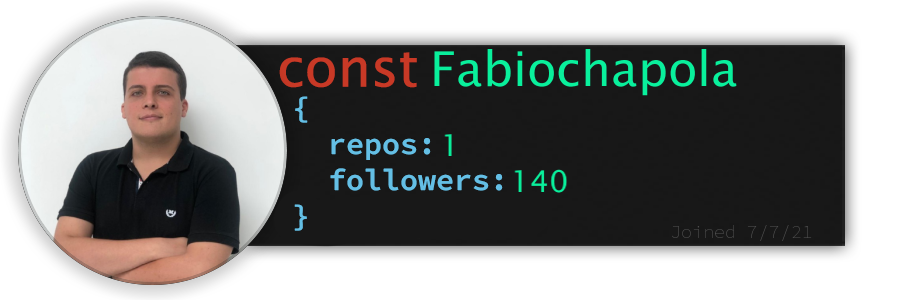
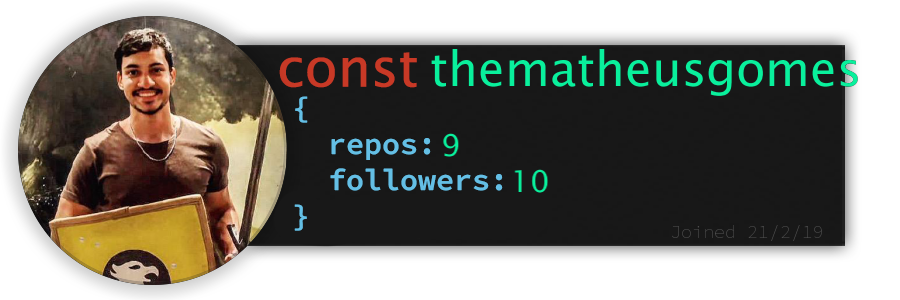
Generated readme

diff --git a/README.md b/README.md
@@ -9,65 +9,65 @@
 * Rômulo Gatto, 29 years
 * Senior Software Engineer
 * Full Cycle Engineer
-* 14 Years, 1 Month and 25 Days since I started Coding
-* 11 Years, 3 Months and 13 Days since I started Working with code
+* 14 Years, 1 Month and 26 Days since I started Coding
+* 11 Years, 3 Months and 14 Days since I started Working with code
 
 ## **Skills wall:**
 
-<p align="left"><img src="https://img.shields.io/badge/sqlite-005b96?logo=sqlite&style=for-the-badge&logoColor=F2F2F2"/>
-<img src="https://img.shields.io/badge/visual%20studio%20code-b6764d?logo=visual%20studio%20code&style=for-the-badge&logoColor=F2F2F2"/>
-<img src="https://img.shields.io/badge/asana-b3cee0?logo=asana&style=for-the-badge&logoColor=121111"/>
-<img src="https://img.shields.io/badge/swagger-b3cee0?logo=swagger&style=for-the-badge&logoColor=121111"/>
-<img src="https://img.shields.io/badge/fastapi-005b96?logo=fastapi&style=for-the-badge&logoColor=F2F2F2"/>
-<img src="https://img.shields.io/badge/pydantic-b6764d?logo=pydantic&style=for-the-badge&logoColor=F2F2F2"/>
-<img src="https://img.shields.io/badge/sqlalchemy-b3cee0?logo=sqlalchemy&style=for-the-badge&logoColor=121111"/>
-<img src="https://img.shields.io/badge/figma-b3cee0?logo=figma&style=for-the-badge&logoColor=121111"/>
-<img src="https://img.shields.io/badge/jenkins-b6764d?logo=jenkins&style=for-the-badge&logoColor=F2F2F2"/>
+<p align="left"><img src="https://img.shields.io/badge/mongodb-b3cee0?logo=mongodb&style=for-the-badge&logoColor=121111"/>
+<img src="https://img.shields.io/badge/express.js-b3cee0?logo=express&style=for-the-badge&logoColor=121111"/>
 <img src="https://img.shields.io/badge/python-005b96?logo=python&style=for-the-badge&logoColor=F2F2F2"/>
-<img src="https://img.shields.io/badge/pytest-b3cee0?logo=pytest&style=for-the-badge&logoColor=121111"/>
-<img src="https://img.shields.io/badge/photoshop-b6764d?logo=adobe-photoshop&style=for-the-badge&logoColor=F2F2F2"/>
-<img src="https://img.shields.io/badge/ruby-b3cee0?logo=ruby&style=for-the-badge&logoColor=121111"/>
-<img src="https://img.shields.io/badge/mongodb-b3cee0?logo=mongodb&style=for-the-badge&logoColor=121111"/>
-<img src="https://img.shields.io/badge/react-005b96?logo=react&style=for-the-badge&logoColor=F2F2F2"/>
-<img src="https://img.shields.io/badge/rio-b3cee0?logo=rio&style=for-the-badge&logoColor=121111"/>
-<img src="https://img.shields.io/badge/golang-005b96?logo=golang&style=for-the-badge&logoColor=F2F2F2"/>
-<img src="https://img.shields.io/badge/markdown-b6764d?logo=markdown&style=for-the-badge&logoColor=F2F2F2"/>
-<img src="https://img.shields.io/badge/jira-005b96?logo=jira&style=for-the-badge&logoColor=F2F2F2"/>
+<img src="https://img.shields.io/badge/django-b3cee0?logo=django&style=for-the-badge&logoColor=121111"/>
+<img src="https://img.shields.io/badge/swagger-b3cee0?logo=swagger&style=for-the-badge&logoColor=121111"/>
+<img src="https://img.shields.io/badge/asana-b3cee0?logo=asana&style=for-the-badge&logoColor=121111"/>
+<img src="https://img.shields.io/badge/figma-b6764d?logo=figma&style=for-the-badge&logoColor=F2F2F2"/>
 <img src="https://img.shields.io/badge/node.js-005b96?logo=node.js&style=for-the-badge&logoColor=F2F2F2"/>
+<img src="https://img.shields.io/badge/postman-b3cee0?logo=postman&style=for-the-badge&logoColor=121111"/>
+<img src="https://img.shields.io/badge/typescript-005b96?logo=typescript&style=for-the-badge&logoColor=F2F2F2"/>
+<img src="https://img.shields.io/badge/github%20pages-005b96?logo=github&style=for-the-badge&logoColor=F2F2F2"/>
 <img src="https://img.shields.io/badge/restapi-005b96?logo=restapi&style=for-the-badge&logoColor=F2F2F2"/>
+<img src="https://img.shields.io/badge/fastapi-005b96?logo=fastapi&style=for-the-badge&logoColor=F2F2F2"/>
 <img src="https://img.shields.io/badge/npm-b6764d?logo=npm&style=for-the-badge&logoColor=F2F2F2"/>
 <img src="https://img.shields.io/badge/flask-b6764d?logo=flask&style=for-the-badge&logoColor=F2F2F2"/>
-<img src="https://img.shields.io/badge/django-b6764d?logo=django&style=for-the-badge&logoColor=F2F2F2"/>
-<img src="https://img.shields.io/badge/github%20actions-005b96?logo=github%20actions&style=for-the-badge&logoColor=F2F2F2"/>
-<img src="https://img.shields.io/badge/github-b3cee0?logo=github&style=for-the-badge&logoColor=121111"/>
-<img src="https://img.shields.io/badge/jquery-b3cee0?logo=jquery&style=for-the-badge&logoColor=121111"/>
+<img src="https://img.shields.io/badge/photoshop-b6764d?logo=adobe-photoshop&style=for-the-badge&logoColor=F2F2F2"/>
 <img src="https://img.shields.io/badge/react%20native-b3cee0?logo=react&style=for-the-badge&logoColor=121111"/>
-<img src="https://img.shields.io/badge/express.js-b6764d?logo=express&style=for-the-badge&logoColor=F2F2F2"/>
-<img src="https://img.shields.io/badge/gitlab-b6764d?logo=gitlab&style=for-the-badge&logoColor=F2F2F2"/>
-<img src="https://img.shields.io/badge/typescript-005b96?logo=typescript&style=for-the-badge&logoColor=F2F2F2"/>
+<img src="https://img.shields.io/badge/rio-b3cee0?logo=rio&style=for-the-badge&logoColor=121111"/>
 <img src="https://img.shields.io/badge/graphql-005b96?logo=graphql&style=for-the-badge&logoColor=F2F2F2"/>
-<img src="https://img.shields.io/badge/postgresql-b6764d?logo=postgresql&style=for-the-badge&logoColor=F2F2F2"/>
-<img src="https://img.shields.io/badge/hostinger-005b96?logo=hostinger&style=for-the-badge&logoColor=F2F2F2"/>
-<img src="https://img.shields.io/badge/jest-b3cee0?logo=jest&style=for-the-badge&logoColor=121111"/>
-<img src="https://img.shields.io/badge/illustrator-b6764d?logo=adobe-illustrator&style=for-the-badge&logoColor=F2F2F2"/>
+<img src="https://img.shields.io/badge/sqlalchemy-b3cee0?logo=sqlalchemy&style=for-the-badge&logoColor=121111"/>
+<img src="https://img.shields.io/badge/visual%20studio%20code-b3cee0?logo=visual%20studio%20code&style=for-the-badge&logoColor=121111"/>
+<img src="https://img.shields.io/badge/github%20actions-005b96?logo=github%20actions&style=for-the-badge&logoColor=F2F2F2"/>
+<img src="https://img.shields.io/badge/gitlab-b6764d?logo=gitlab&style=for-the-badge&logoColor=F2F2F2"/>
 <img src="https://img.shields.io/badge/delphi-b3cee0?logo=delphi&style=for-the-badge&logoColor=121111"/>
-<img src="https://img.shields.io/badge/graphene-b3cee0?logo=graphene&style=for-the-badge&logoColor=121111"/>
-<img src="https://img.shields.io/badge/postman-b3cee0?logo=postman&style=for-the-badge&logoColor=121111"/>
-<img src="https://img.shields.io/badge/shell%20script-b6764d?logo=gnu-bash&style=for-the-badge&logoColor=F2F2F2"/>
-<img src="https://img.shields.io/badge/gorm-b6764d?logo=gorm&style=for-the-badge&logoColor=F2F2F2"/>
-<img src="https://img.shields.io/badge/aws-005b96?logo=aws&style=for-the-badge&logoColor=F2F2F2"/>
+<img src="https://img.shields.io/badge/ruby-b3cee0?logo=ruby&style=for-the-badge&logoColor=121111"/>
+<img src="https://img.shields.io/badge/sqlite-005b96?logo=sqlite&style=for-the-badge&logoColor=F2F2F2"/>
+<img src="https://img.shields.io/badge/git-005b96?logo=git&style=for-the-badge&logoColor=F2F2F2"/>
+<img src="https://img.shields.io/badge/gorm-b3cee0?logo=gorm&style=for-the-badge&logoColor=121111"/>
+<img src="https://img.shields.io/badge/mysql-005b96?logo=mysql&style=for-the-badge&logoColor=F2F2F2"/>
+<img src="https://img.shields.io/badge/jquery-b3cee0?logo=jquery&style=for-the-badge&logoColor=121111"/>
+<img src="https://img.shields.io/badge/markdown-b3cee0?logo=markdown&style=for-the-badge&logoColor=121111"/>
+<img src="https://img.shields.io/badge/illustrator-b6764d?logo=adobe-illustrator&style=for-the-badge&logoColor=F2F2F2"/>
+<img src="https://img.shields.io/badge/jira-005b96?logo=jira&style=for-the-badge&logoColor=F2F2F2"/>
+<img src="https://img.shields.io/badge/hostinger-005b96?logo=hostinger&style=for-the-badge&logoColor=F2F2F2"/>
+<img src="https://img.shields.io/badge/docker-005b96?logo=docker&style=for-the-badge&logoColor=F2F2F2"/>
+<img src="https://img.shields.io/badge/graphene-b6764d?logo=graphene&style=for-the-badge&logoColor=F2F2F2"/>
 <img src="https://img.shields.io/badge/gcp-b3cee0?logo=gcp&style=for-the-badge&logoColor=121111"/>
 <img src="https://img.shields.io/badge/javascript-005b96?logo=javascript&style=for-the-badge&logoColor=F2F2F2"/>
+<img src="https://img.shields.io/badge/shell%20script-b3cee0?logo=gnu-bash&style=for-the-badge&logoColor=121111"/>
+<img src="https://img.shields.io/badge/jenkins-b6764d?logo=jenkins&style=for-the-badge&logoColor=F2F2F2"/>
 <img src="https://img.shields.io/badge/sql%20server-005b96?logo=sql%20server&style=for-the-badge&logoColor=F2F2F2"/>
-<img src="https://img.shields.io/badge/git-005b96?logo=git&style=for-the-badge&logoColor=F2F2F2"/>
-<img src="https://img.shields.io/badge/mysql-005b96?logo=mysql&style=for-the-badge&logoColor=F2F2F2"/>
-<img src="https://img.shields.io/badge/docker-005b96?logo=docker&style=for-the-badge&logoColor=F2F2F2"/>
-<img src="https://img.shields.io/badge/github%20pages-005b96?logo=github&style=for-the-badge&logoColor=F2F2F2"/></p>
+<img src="https://img.shields.io/badge/github-b3cee0?logo=github&style=for-the-badge&logoColor=121111"/>
+<img src="https://img.shields.io/badge/aws-005b96?logo=aws&style=for-the-badge&logoColor=F2F2F2"/>
+<img src="https://img.shields.io/badge/jest-b6764d?logo=jest&style=for-the-badge&logoColor=F2F2F2"/>
+<img src="https://img.shields.io/badge/pydantic-b6764d?logo=pydantic&style=for-the-badge&logoColor=F2F2F2"/>
+<img src="https://img.shields.io/badge/pytest-b3cee0?logo=pytest&style=for-the-badge&logoColor=121111"/>
+<img src="https://img.shields.io/badge/golang-005b96?logo=golang&style=for-the-badge&logoColor=F2F2F2"/>
+<img src="https://img.shields.io/badge/postgresql-b6764d?logo=postgresql&style=for-the-badge&logoColor=F2F2F2"/>
+<img src="https://img.shields.io/badge/react-005b96?logo=react&style=for-the-badge&logoColor=F2F2F2"/></p>
 
 ## **Recent projects:**
 
-<a href="https://github.com/RomuloGatto/Text-To-Video-AI"><img src="https://github-readme-stats.vercel.app/api/pin/?username=RomuloGatto&repo=Text-To-Video-AI&title_color=F2F2F2&text_color=F2F2F2&bg_color=b6764d&border_color=b6764d&icon_color=F2F2F2&border_radius=20" height="100"/></a>
 <a href="https://github.com/RomuloGatto/RomuloGatto"><img src="https://github-readme-stats.vercel.app/api/pin/?username=RomuloGatto&repo=RomuloGatto&title_color=F2F2F2&text_color=F2F2F2&bg_color=b6764d&border_color=b6764d&icon_color=F2F2F2&border_radius=20" height="100"/></a>
+<a href="https://github.com/RomuloGatto/Text-To-Video-AI"><img src="https://github-readme-stats.vercel.app/api/pin/?username=RomuloGatto&repo=Text-To-Video-AI&title_color=F2F2F2&text_color=F2F2F2&bg_color=b6764d&border_color=b6764d&icon_color=F2F2F2&border_radius=20" height="100"/></a>
 <a href="https://github.com/RomuloGatto/SharedMoments"><img src="https://github-readme-stats.vercel.app/api/pin/?username=RomuloGatto&repo=SharedMoments&title_color=F2F2F2&text_color=F2F2F2&bg_color=b6764d&border_color=b6764d&icon_color=F2F2F2&border_radius=20" height="100"/></a>
 <a href="https://github.com/RomuloGatto/aircrawl_portal"><img src="https://github-readme-stats.vercel.app/api/pin/?username=RomuloGatto&repo=aircrawl_portal&title_color=F2F2F2&text_color=F2F2F2&bg_color=b6764d&border_color=b6764d&icon_color=F2F2F2&border_radius=20" height="100"/></a>
 <a href="https://github.com/RomuloGatto/romulogatto.github.io"><img src="https://github-readme-stats.vercel.app/api/pin/?username=RomuloGatto&repo=romulogatto.github.io&title_color=F2F2F2&text_color=F2F2F2&bg_color=b6764d&border_color=b6764d&icon_color=F2F2F2&border_radius=20" height="100"/></a>
@@ -85,7 +85,7 @@
 
 *Showcases a random GitHub follower here everyday*
 
-<a href="https://github.com/Fabiochapola" alt="Fábio Chapola"><img style="height:150px;" src=./src/resources/images/randomFollower.png alt="Follower of the day"/></a>
+<a href="https://github.com/thematheusgomes" alt="Matheus Gomes"><img style="height:150px;" src=./src/resources/images/randomFollower.png alt="Follower of the day"/></a>
 
 <hr>
 
